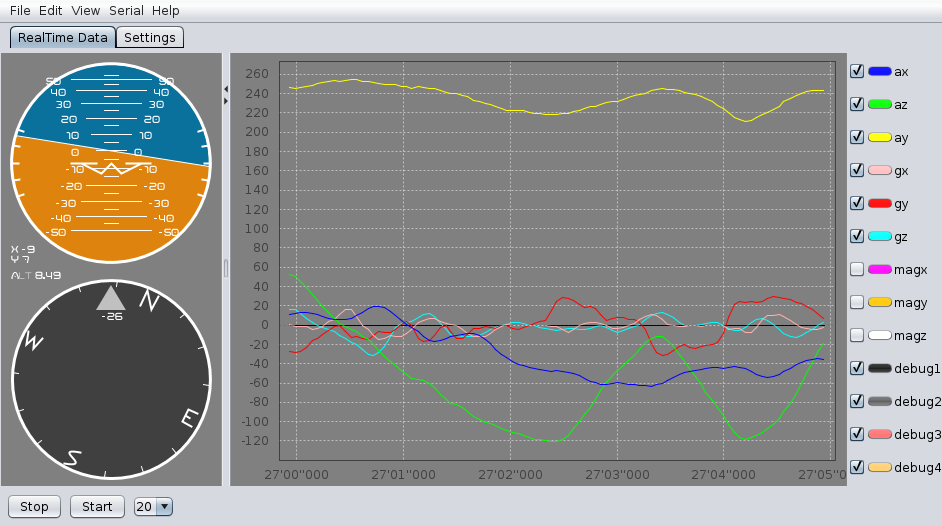
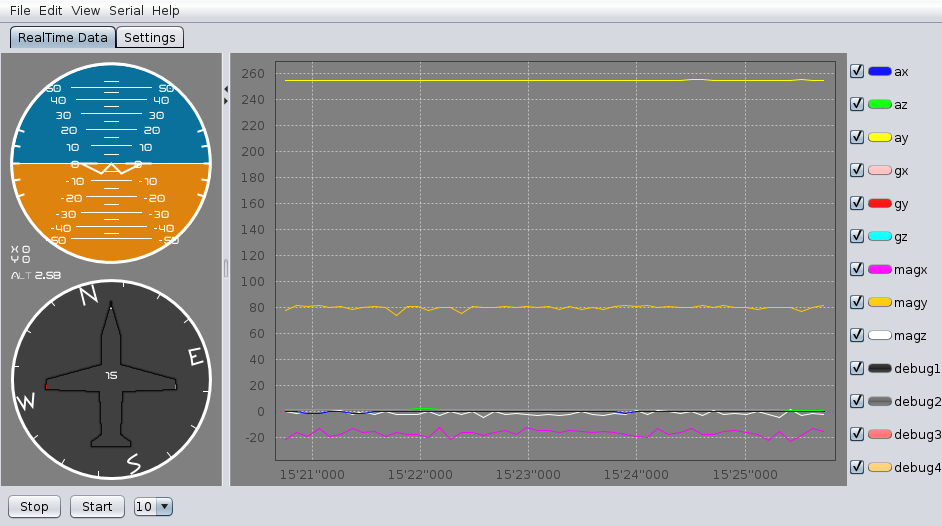
new compas graphic

diff --git a/gui/src/main/java/eu/kprod/gui/MwCompasPanel.java b/gui/src/main/java/eu/kprod/gui/MwCompasPanel.java
@@ -8,11 +8,16 @@ import java.awt.BasicStroke;
 import java.awt.Color;
 import java.awt.Graphics;
 import java.awt.Graphics2D;
+import java.awt.Image;
 import java.awt.RenderingHints;
+import java.awt.Toolkit;
 import java.awt.geom.AffineTransform;
 import java.awt.geom.Ellipse2D;
 import java.awt.geom.Ellipse2D.Float;
 import java.awt.geom.GeneralPath;
+import java.awt.image.BufferedImage;
+import java.awt.image.RescaleOp;
+import java.net.URL;
 
 import eu.kprod.ds.MwDataSourceListener;
 import eu.kprod.msp.MSP;
@@ -36,9 +41,25 @@ public class MwCompasPanel extends MwInstrumentJPanel implements
 
     private Double alt = 0.0;
 
+    private static Image imageCompas;
+
     public MwCompasPanel(Color c) {
         super();
         setBackground(c);
+
+        if (imageCompas == null) {
+
+            URL  url = this.getClass().getResource( "/compas.png");
+
+
+            try {
+                imageCompas = Toolkit.getDefaultToolkit().getImage(url);
+
+
+            } catch (Exception e) {
+                System.out.println("Fonts not found!!!");
+            }
+        }
     }
 
     public void paintComponent(Graphics g) {
@@ -148,8 +169,6 @@ public class MwCompasPanel extends MwInstrumentJPanel implements
                         (centerPoint.getX() - radius +12),       centerPoint.getY()-25,
                         (centerPoint.getX() - radius +20),       centerPoint.getY()+5);
                         
-//                bankMarkerLong.lineTo((centerPoint.getX() - radius + 12),       centerPoint.getY()-5);
-//                bankMarkerLong.lineTo((centerPoint.getX() - radius +18),           centerPoint.getY()+5);
                 g2d.setStroke(new BasicStroke(2));
                 g2d.draw(bankMarkerLong);
             }else {
@@ -172,15 +191,15 @@ public class MwCompasPanel extends MwInstrumentJPanel implements
         g2d.setStroke(new BasicStroke(2));
         g2d.setPaint(Color.lightGray);
 
-        triangle = new GeneralPath(GeneralPath.WIND_EVEN_ODD);
-        triangle.moveTo(centerPoint.getX(), (centerPoint.getY() - radius + 5));
-        triangle.lineTo((centerPoint.getX() - 15),
-                (centerPoint.getY() - radius + 30));
-        triangle.lineTo((centerPoint.getX() + 15),
-                (centerPoint.getY() - radius + 30));
-        triangle.closePath();
-
-        g2d.fill(triangle);
+//        triangle = new GeneralPath(GeneralPath.WIND_EVEN_ODD);
+//        triangle.moveTo(centerPoint.getX(), (centerPoint.getY() - radius + 5));
+//        triangle.lineTo((centerPoint.getX() - 15),
+//                (centerPoint.getY() - radius + 30));
+//        triangle.lineTo((centerPoint.getX() + 15),
+//                (centerPoint.getY() - radius + 30));
+//        triangle.closePath();
+//
+//        g2d.fill(triangle);
 
         g2d.setStroke(new BasicStroke(1));
         g2d.setPaint(Color.white);
@@ -188,8 +207,28 @@ public class MwCompasPanel extends MwInstrumentJPanel implements
         String k =  head.toString();
         
             g2d.drawString(k, (float) (centerPoint.getX() - k.length() * 3),
-                    (float) (centerPoint.getY() - (radius - 40)));
-        
+                    (float) centerPoint.getY());
+            
+            int w = 200;
+
+            BufferedImage bi = new
+                BufferedImage(w, w, BufferedImage.TYPE_INT_ARGB);
+            Graphics g = bi.getGraphics();
+            g.drawImage(imageCompas, 0, 0, null);
+
+
+            float[] scales = { 1.0f ,1.0f,1.0f,0.8f};
+            float[] offsets = new float[4];
+            RescaleOp rop = new RescaleOp(scales, offsets, null);
+
+            int c = (maxRadius-w )/ 2;
+            /* Draw the image, applying the filter */
+            g2d.drawImage(bi, rop, c ,  c);
+
+            
+          
+//            g2d.draw(triangle);
+            
     }
 
     @Override
